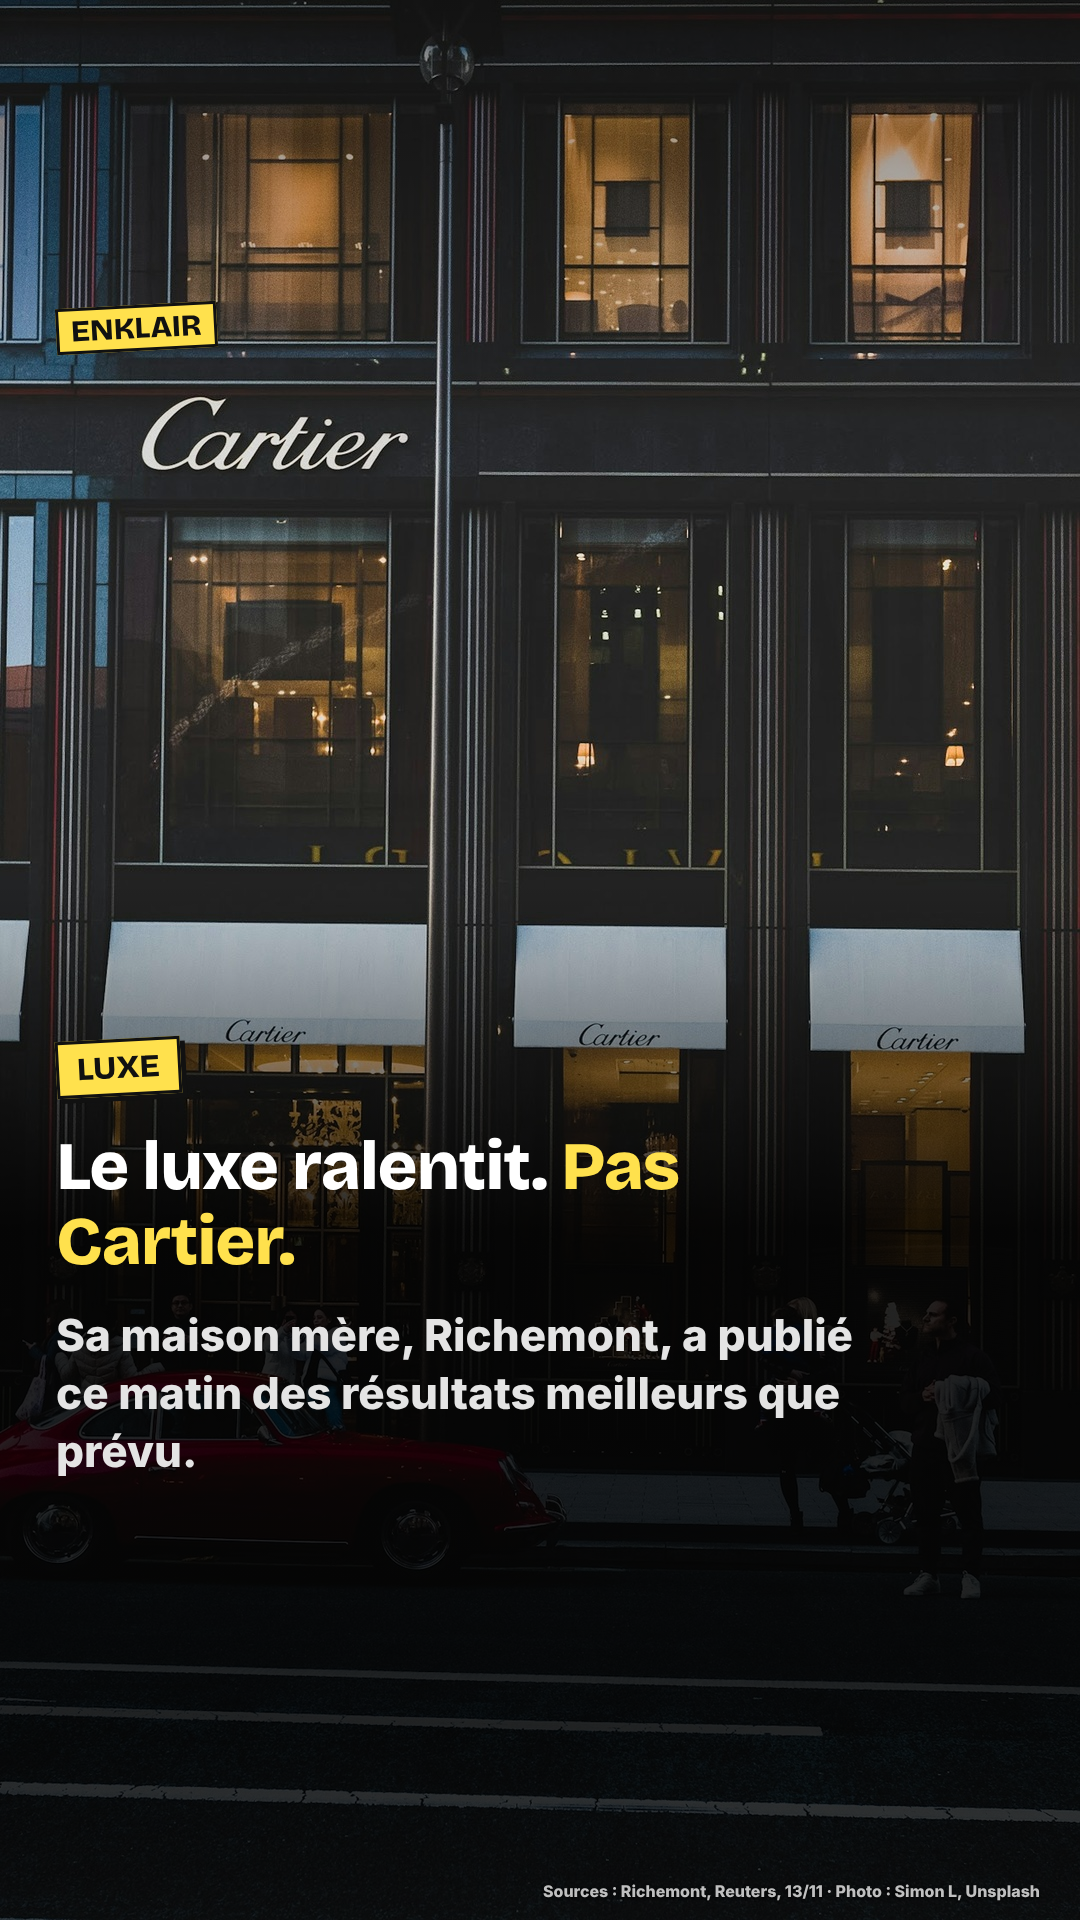
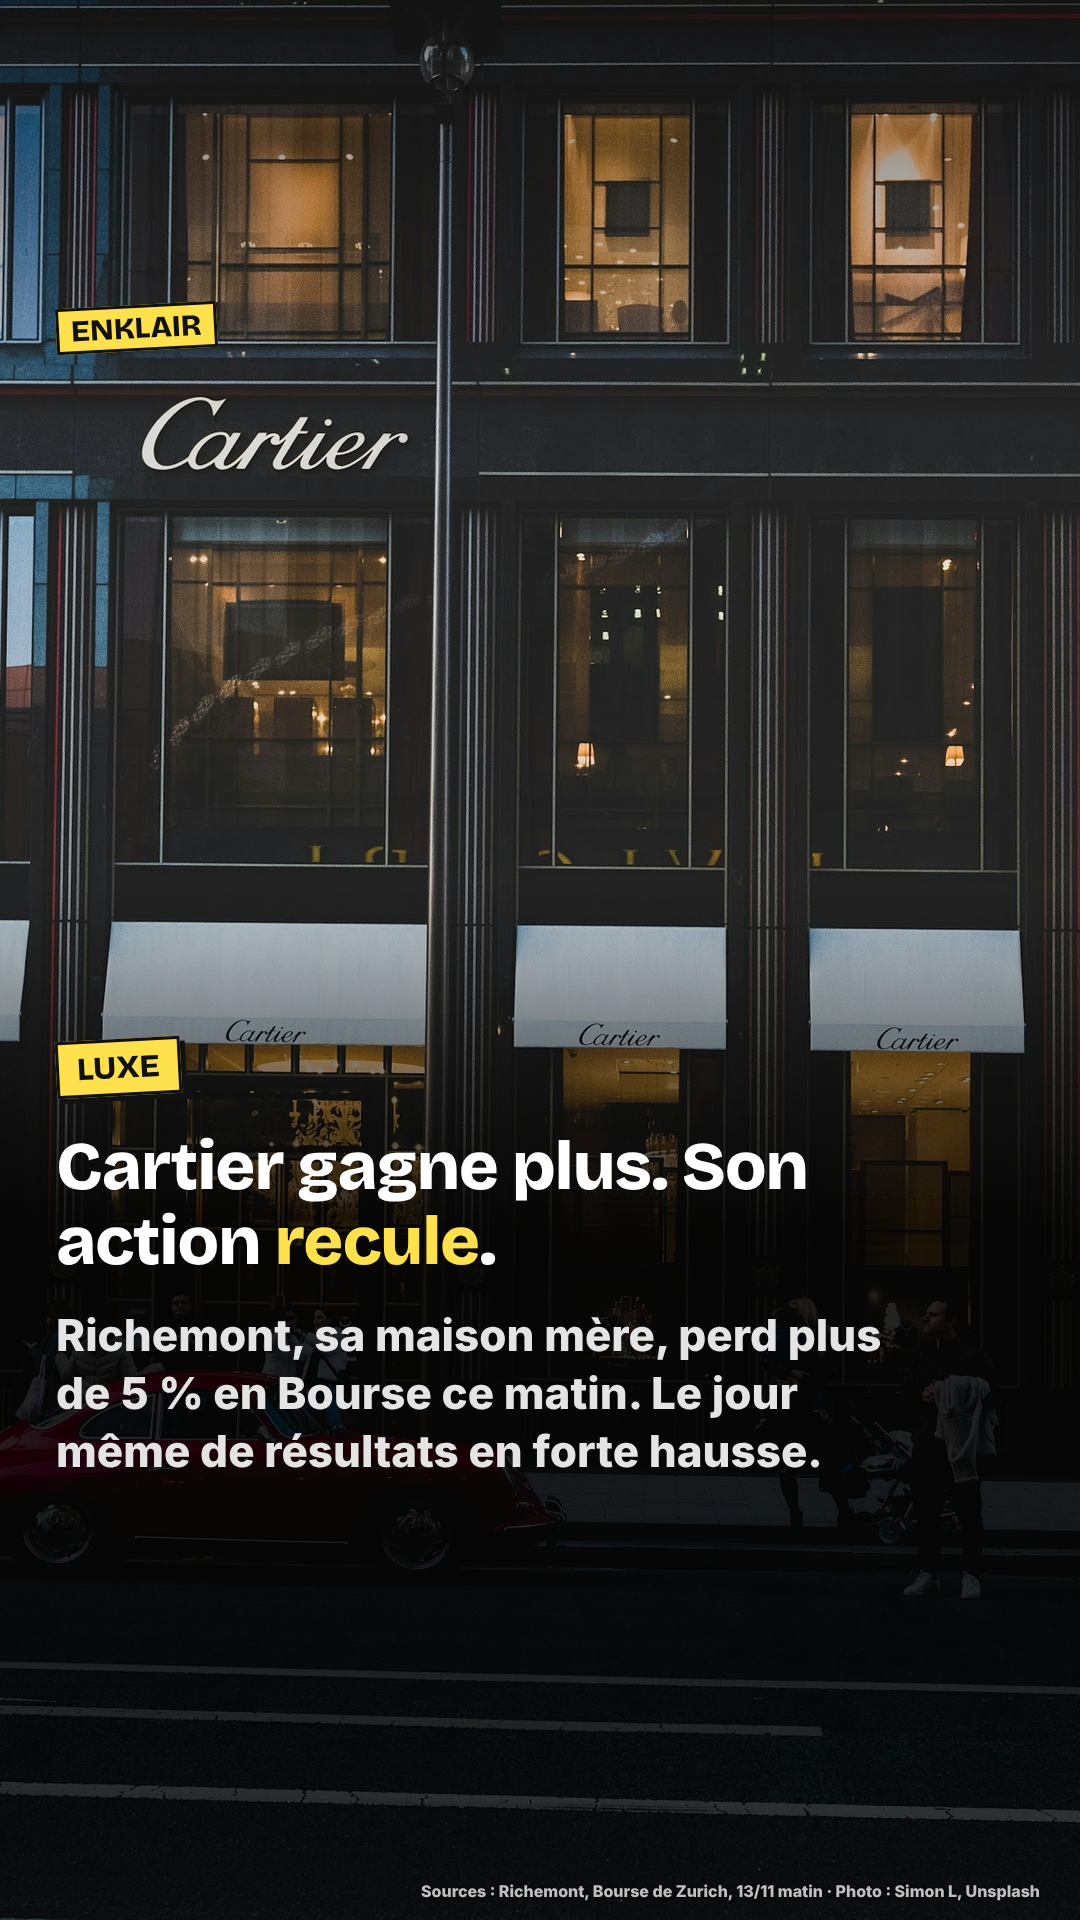
Carrousel Richemont : l'action recule malgré les résultats, images 1 et 5 réécrites
Claude-Session: https://claude.ai/code/session_01Jnxfj64eBoVeCGv3gBUUQk

diff --git a/scripts/video/carrousel/richemont-cartier/tt.html b/scripts/video/carrousel/richemont-cartier/tt.html
@@ -23,11 +23,11 @@ body.reel .lead{font-size:52px!important}body.reel .sub{font-size:35px!important
 .lead{font-size:68px!important}.sub{font-size:44px!important}body.reel .lead{font-size:60px!important}body.reel .sub{font-size:40px!important}.txt .src{display:none}</style></head><body><div id="c"></div><script>
 // [photo, hauteur photo, début du dégradé, haut du texte, html, crédit]
 const S=[
-['n1.jpg',1920,850,1130,`<div class="pill">LUXE</div><div class="lead">Le luxe ralentit. <em>Pas Cartier.</em></div><div class="sub">Sa maison mère, Richemont, a publié ce matin des résultats meilleurs que prévu.</div>`,'Sources : Richemont, Reuters, 13/11 · Photo : Simon L, Unsplash'],
+['n1.jpg',1920,850,1130,`<div class="pill">LUXE</div><div class="lead">Cartier gagne plus. Son action <em>recule</em>.</div><div class="sub">Richemont, sa maison mère, perd plus de 5&nbsp;% en Bourse ce matin. Le jour même de résultats en forte hausse.</div>`,'Sources : Richemont, Bourse de Zurich, 13/11 matin · Photo : Simon L, Unsplash'],
 ['n2.jpg',1920,850,1130,`<div class="pill">EN SIX MOIS</div><div class="lead"><em>12,3 milliards d'euros</em> de ventes.</div><div class="sub">D'avril à septembre : 16&nbsp;% de plus qu'un an plus tôt. Richemont, ce sont 23 maisons, dont Cartier, Van Cleef &amp; Arpels et Piaget.</div>`,'Source : communiqué de Richemont, 13/11 · Photo : Phước Sang, Unsplash'],
 ['n3.jpg',1920,850,1130,`<div class="pill">LE MOTEUR</div><div class="lead">Les <em>bijoux</em> : trois quarts des ventes.</div><div class="sub">9,1 milliards d'euros en six mois, en hausse de 18&nbsp;% selon le groupe. Les montres pèsent 1,7 milliard.</div>`,'Sources : Richemont, AWP, 13/11 · Photo : parisa safaei, Unsplash'],
 ['n4.jpg',1920,850,1130,`<div class="pill">BÉNÉFICE</div><div class="lead"><em>2,5 milliards d'euros</em> de bénéfice net.</div><div class="sub">Contre 1,8 milliard un an plus tôt. Sur 100&nbsp;€ vendus, 25,50&nbsp;€ de résultat d'exploitation, contre 22,20&nbsp;€.</div>`,'Source : communiqué de Richemont, 13/11 · Photo : Ibrahim Boran, Unsplash'],
-['n5.jpg',1920,850,1130,`<div class="pill">LE DÉTAIL DU JOUR</div><div class="lead">Des résultats en retard à cause d'une <em>panne Microsoft</em>.</div><div class="sub">La publication était prévue à 7&nbsp;h. Elle a été repoussée : une panne mondiale touchait les services de Microsoft.</div>`,'Source : Reuters, 13/11 · Photo : Sam Torres, Unsplash'],
+['n7.jpg',1920,850,1130,`<div class="pill">ALORS, POURQUOI&nbsp;?</div><div class="lead">Une piste : la croissance <em>ralentit</em>.</div><div class="sub">Ventes en hausse de 20&nbsp;% d'avril à juin, puis de 13&nbsp;% de juillet à septembre. Et le groupe ne donne aucune prévision chiffrée pour la suite. La Bourse regarde devant, pas derrière.</div>`,'Source : communiqué de Richemont, 13/11 · Photo d\'illustration : Maxim Hopman, Unsplash'],
 ['n6.jpg',1920,850,1130,`<div class="lead">Le luxe, <em>en&nbsp;clair</em>.</div><div class="sub">LVMH, Hermès, Kering : leurs ventes, leur marge, leur dette, tirées de leurs comptes officiels, sur enklair.com.</div>`,'Capture d\'enklair.com, fiche LVMH · Photo : Eliott Goutard, Unsplash',`<div style="position:absolute;z-index:5;left:50%;top:400px;width:600px;margin-left:-300px;transform:rotate(-2deg);border:6px solid #111;border-radius:34px;overflow:hidden;box-shadow:16px 16px 0 #111;background:#fff"><img src="fichecrop.png" style="display:block;width:100%"></div>`],
 
 ];
